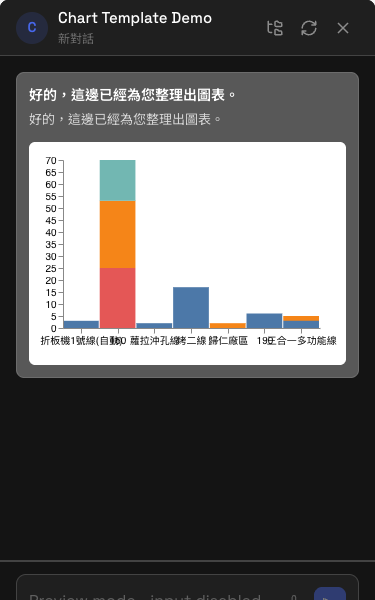
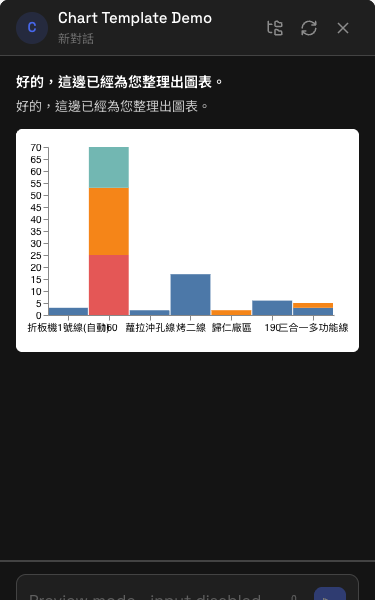
fix: remove chart message card chrome

Changed region(s): [[0.0293, 0.12, 0.968, 0.63]]

diff --git a/packages/react/src/components/templates/chart-template/chart-template.tsx b/packages/react/src/components/templates/chart-template/chart-template.tsx
@@ -1,4 +1,4 @@
-import { ReactNode, useMemo, useState, useRef, useEffect, CSSProperties } from 'react';
+import { ReactNode, useMemo, useState, useRef, useEffect } from 'react';
 import { TemplateBox, TemplateBoxContent } from '../template-box';
 import { ConversationBotMessage, ChartMessageTemplate } from '@asgard-js/core';
 import { VegaEmbed } from 'react-vega';
@@ -58,14 +58,6 @@ export function ChartTemplate(props: ChartTemplateProps): ReactNode {
     return cloned as unknown as VisualizationSpec;
   }, [spec, chartWidth]);
 
-  const styles = useMemo<CSSProperties>(
-    () => ({
-      color: botMessage?.color,
-      backgroundColor: botMessage?.backgroundColor,
-    }),
-    [botMessage],
-  );
-
   return (
     <TemplateBox
       className="asgard-chart-template"
@@ -74,7 +66,7 @@ export function ChartTemplate(props: ChartTemplateProps): ReactNode {
       style={themeTemplate?.ChartMessageTemplate?.style}
     >
       <TemplateBoxContent quickReplies={template?.quickReplies} references={template?.references} message={message}>
-        <div className={classes.container} style={styles}>
+        <div className={classes.container} style={{ color: botMessage?.color }}>
           <div className={classes.header}>
             <div className={classes.title_box}>
               {template.title && <div className={classes.title}>{template.title}</div>}

diff --git a/packages/react/src/components/templates/chart-template/chart-template.module.scss b/packages/react/src/components/templates/chart-template/chart-template.module.scss
@@ -3,11 +3,7 @@
   flex-direction: column;
   gap: 12px;
   width: 100%;
-  background: #585858;
-  color: white;
-  border: 1px solid rgba(255, 255, 255, 0.12);
-  border-radius: 8px;
-  padding: 12px;
+  color: var(--asg-color-text-primary, #fff);
 }
 
 .header {
